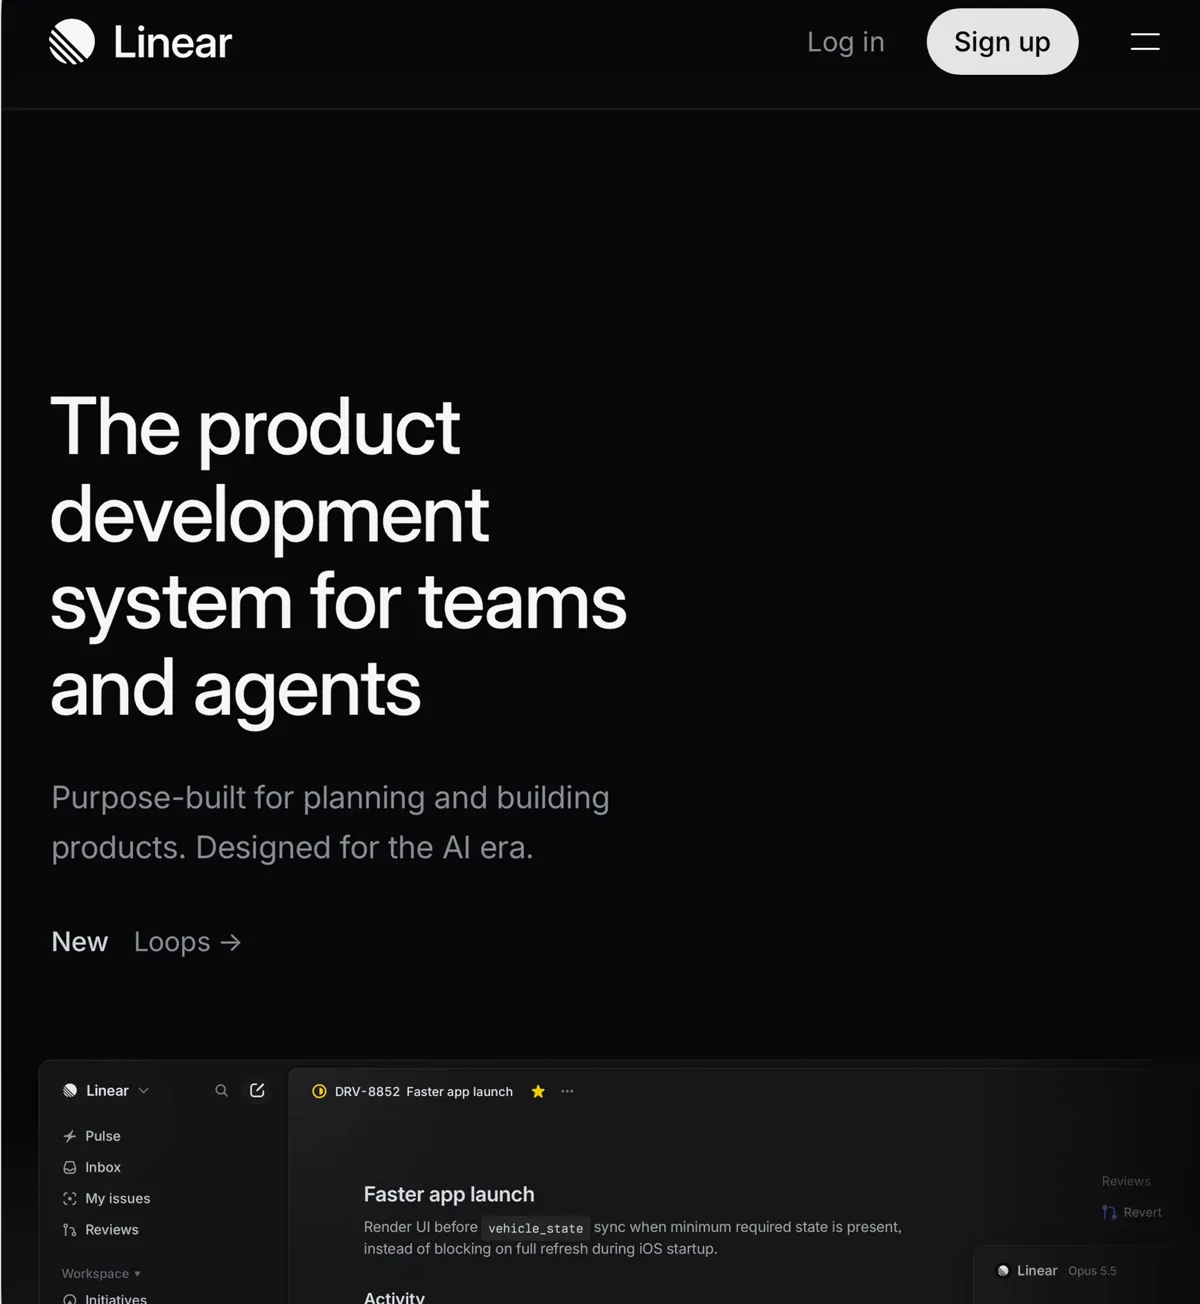
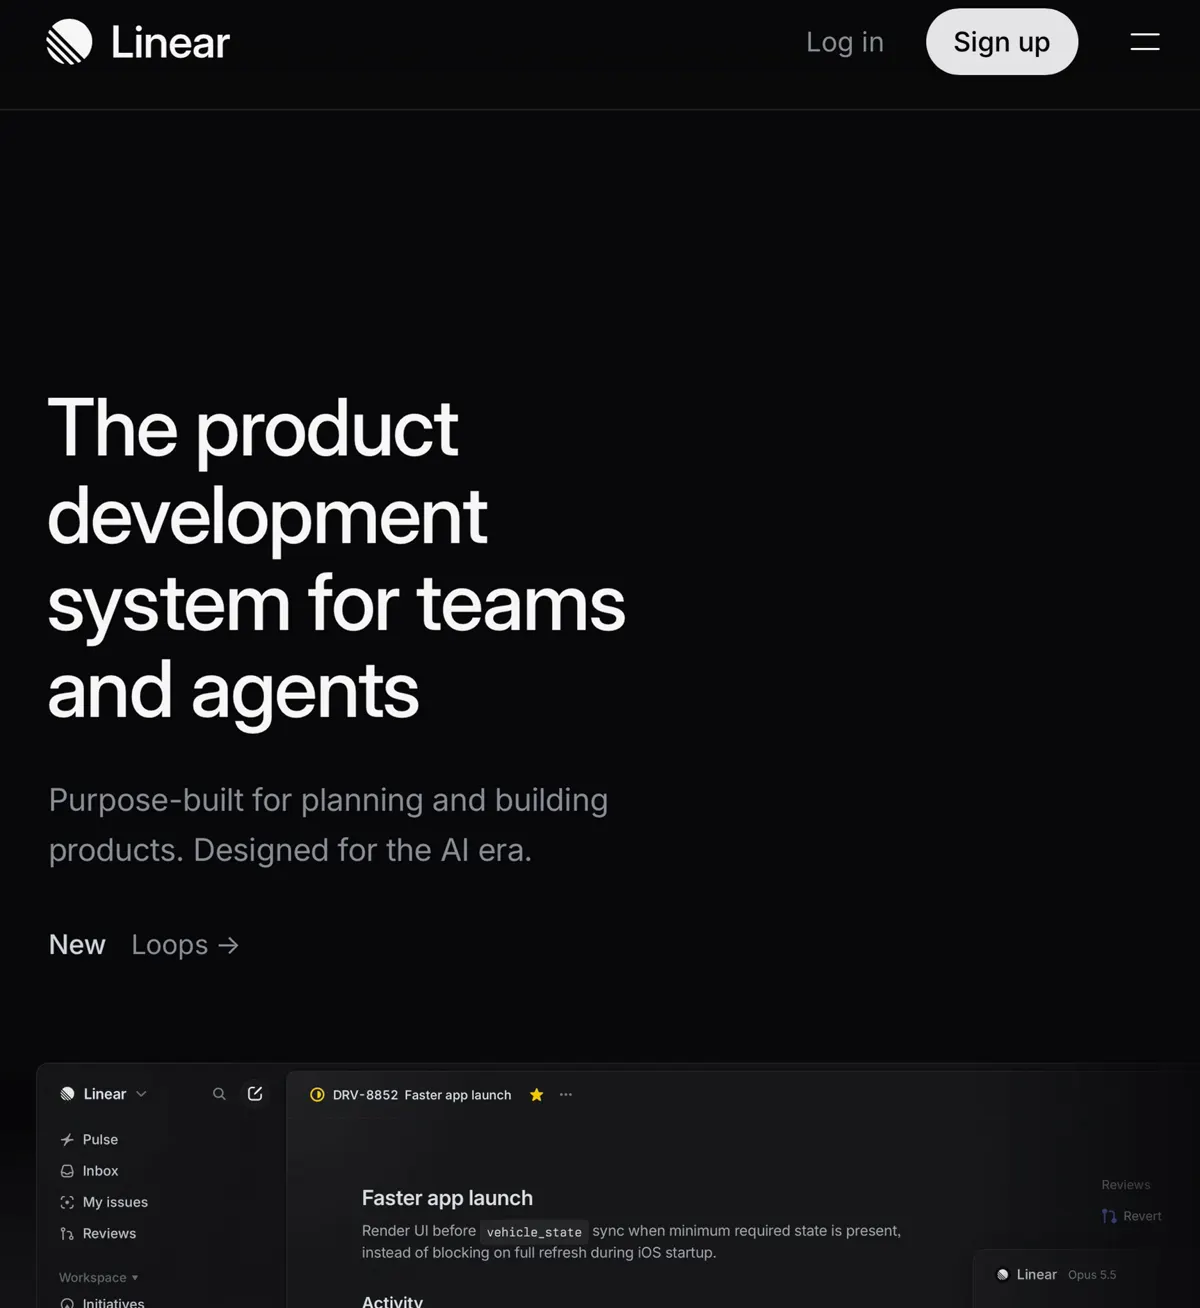
Fix the hero's height jump and the mock's edge gap, and animate the README
Switching the hero between open and closed no longer changes the page's height, because the hidden
posture keeps its space. The layouts mock's page image no longer includes the sliver of sidebar
that showed as a gap on its left. The README now shows the layouts animation and the feature clips.

diff --git a/website/scripts/render-layouts.js b/website/scripts/render-layouts.js
@@ -1,0 +1,46 @@
+// Renders the layouts section's animation to PNG frames for docs/media/layouts-*.webp.
+// Serve website/public on port 8789, then: node render-layouts.js <empty folder>
+// Encode each scheme with: img2webp -loop 0 -lossy -q 72 -m 4 $(cat <folder>/<scheme>.txt) -o layouts-<scheme>.webp
+const { chromium } = require("playwright");
+const fs = require("fs");
+const out = process.argv[2];
+
+(async () => {
+  const browser = await chromium.launch({ channel: "chrome" });
+  for (const colorScheme of ["light", "dark"]) {
+    const context = await browser.newContext({ viewport: { width: 720, height: 720 }, deviceScaleFactor: 1.25, colorScheme });
+    await context.addInitScript(() => sessionStorage.setItem("hero-drawn", "1"));
+    const page = await context.newPage();
+    await page.goto("http://localhost:8789/");
+    await page.addStyleTag({
+      content: ".m-stage{position:fixed!important;inset:0;width:720px;height:720px;margin:0;padding:16px;z-index:99;background:var(--ground)}html{overflow:hidden}",
+    });
+    await page.evaluate(() => Promise.all([...document.querySelectorAll(".m-stage img")].map((i) => i.decode())));
+    await page.waitForTimeout(400);
+
+    const frames = [];
+    const shoot = async (delay) => {
+      const file = `${out}/${colorScheme}-${String(frames.length).padStart(4, "0")}.png`;
+      await page.screenshot({ path: file });
+      frames.push(`-d ${delay} ${file}`);
+    };
+    await shoot(1400);
+    for (const name of ["open", "portrait", "overlay", "closed", "sidebar"]) {
+      await page.evaluate((n) => document.querySelector(`[data-layout-pick="${n}"]`).click(), name);
+      await page.evaluate(() => {
+        window.running = document.getAnimations();
+        window.running.forEach((a) => a.pause());
+      });
+      for (let t = 50; t <= 600; t += 50) {
+        await page.evaluate((ms) => window.running.forEach((a) => (a.currentTime = ms)), t);
+        await shoot(50);
+      }
+      await page.evaluate(() => window.running.forEach((a) => a.finish()));
+      await page.waitForTimeout(60);
+      await shoot(1400);
+    }
+    fs.writeFileSync(`${out}/${colorScheme}.txt`, frames.join("\n"));
+    await context.close();
+  }
+  await browser.close();
+})();

diff --git a/website/public/styles.css b/website/public/styles.css
@@ -99,7 +99,9 @@ h1, h2 { margin: 0; font-weight: 600; text-wrap: balance; }
 .device.upright { --r: 6.7cqw; --tl: 6.7cqw; --b: 1.39cqw; --ratio: 2006 / 2852; }
 
 .stage { margin-top: clamp(28px, 3.4vw, 44px); display: grid; justify-items: center; }
-.stage > .device { grid-area: 1 / 1; }
+.stage > .device { grid-area: 1 / 1; align-self: center; }
+/* The other posture keeps its space, so switching doesn't change the page's height. */
+.stage > .device[hidden] { display: block; visibility: hidden; }
 .stage > .wide { width: min(100%, calc((100svh - 96px) * 1.42)); }
 .stage > .tall { width: min(480px, 76vw); }
 /* Waits for the stencil, but never for long if the script doesn't run. */

diff --git a/website/public/site.js b/website/public/site.js
@@ -20,7 +20,7 @@ function sync() {
   syncCycle();
   for (const clip of clips) {
     const held = heroDrawing && heroClips.has(clip);
-    if (!paused && !held && visible.has(clip) && clip.offsetParent !== null) clip.play().catch(() => {});
+    if (!paused && !held && visible.has(clip) && !clip.closest("[hidden]")) clip.play().catch(() => {});
     else clip.pause();
   }
   motionButton.setAttribute("aria-pressed", String(paused));

diff --git a/README.md b/README.md
@@ -1,7 +1,14 @@
 # Browsa
 
+<p align="center">
+  <picture>
+    <source media="(prefers-color-scheme: dark)" srcset="docs/media/layouts-dark.webp">
+    <img src="docs/media/layouts-light.webp" width="560" alt="An iPhone Duo moving between Browsa's five layouts: sidebar, landscape, portrait, portrait with the sidebar over the page, and closed.">
+  </picture>
+</p>
+
 A native WebKit browser for iPhone Duo, open source under the [MIT license](LICENSE). Use it as it
-is, or fork it as a starting point for your own browser. It brings Arc's navigation model to iOS:
+is, or fork it as a starting point for your own browser. See it at [browsa.app](https://browsa.app). It brings Arc's navigation model to iOS:
 
 - **Unfolded (inner display):** a collapsible sidebar with spaces, pinned tabs and today tabs. The
   sidebar toggle and a one-tap **New Tab** sit in the Duo's system vertical bar.
@@ -17,6 +24,35 @@ is, or fork it as a starting point for your own browser. It brings Arc's navigat
 - **Video:** fullscreen hands the video to the system player, with picture-in-picture and AirPlay.
 - **Content blocking:** blocks ads and trackers, declines cookie banners and strips tracking
   parameters from links. Each can be turned off in Settings, and blockers can be turned off per site.
+
+## In motion
+
+<table>
+  <tr>
+    <td><img src="docs/media/sidebar.webp" alt="The sidebar sliding away so a page fills the screen, then sliding back."></td>
+    <td><img src="docs/media/spaces.webp" alt="Switching between the Personal and Work spaces."></td>
+  </tr>
+  <tr>
+    <td align="center">Sidebar</td>
+    <td align="center">Spaces</td>
+  </tr>
+  <tr>
+    <td><img src="docs/media/suggest.webp" alt="The new-tab sheet with suggestions appearing while typing."></td>
+    <td><img src="docs/media/reader.webp" alt="Opening Reader on an article from the page menu."></td>
+  </tr>
+  <tr>
+    <td align="center">Suggestions</td>
+    <td align="center">Reader</td>
+  </tr>
+  <tr>
+    <td align="center"><img src="docs/media/grid.webp" width="280" alt="Closed, opening every tab in the space as a grid."></td>
+    <td align="center"><img src="docs/media/gutter.webp" width="130" alt="A download ring filling in the Duo's vertical bar, then finishing with a tick."></td>
+  </tr>
+  <tr>
+    <td align="center">All tabs, closed</td>
+    <td align="center">Downloads in the gutter</td>
+  </tr>
+</table>
 
 ## Build
 
